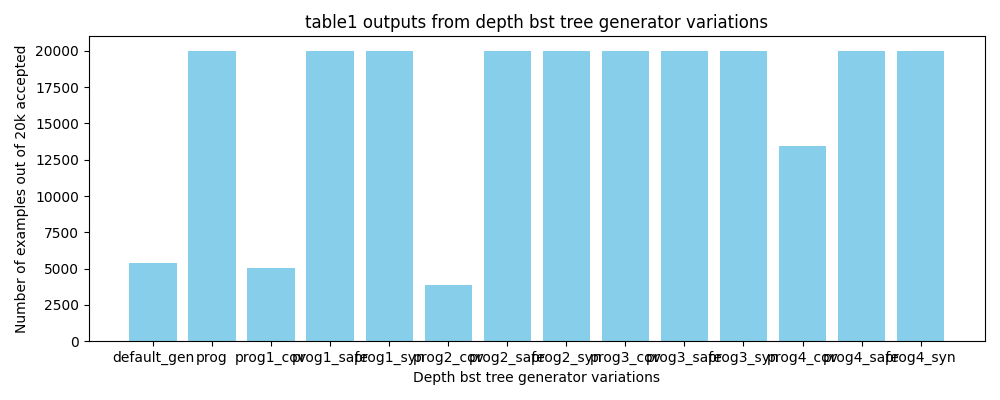
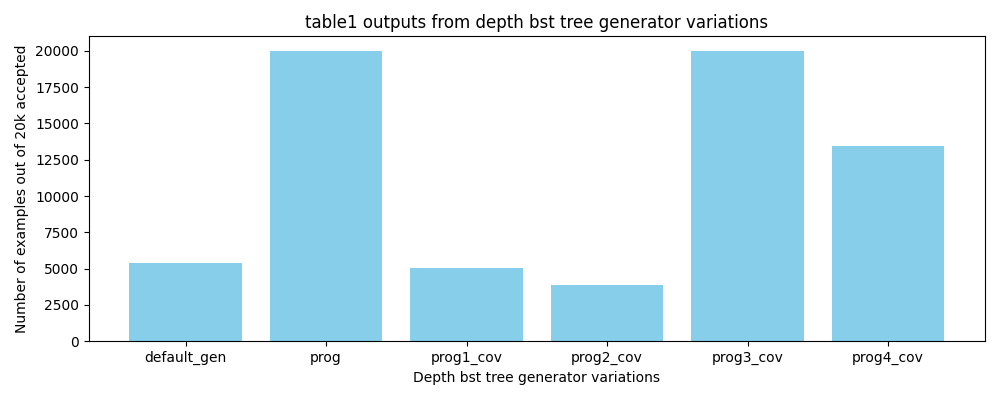
Ignore safe/syn benchmarks for eval2... they are basically just the ref benchmark numbers

Changed region(s): [[0.093, 0.12, 0.961, 0.93]]

diff --git a/scripts/bar_graph.py b/scripts/bar_graph.py
@@ -11,6 +11,10 @@ parser.add_argument("table", help="Specify table [table1|table2].")
 args = parser.parse_args()
 table = args.table
 
+assert (
+    table == "table1" or table == "table2"
+), "Invalid table name. Use 'table1' or 'table2'."
+
 # list of names for tables
 names = [
     "Duplicate list",
@@ -39,6 +43,8 @@ for name in names:
 
             rows = list(csv_reader)
             list.sort(rows, key=lambda row: row[0])
+            if table == "table1":
+                rows = [r for r in rows if not "_safe" in r[0] and not "_syn" in r[0]]
 
             for row in rows:
                 # print(row)
